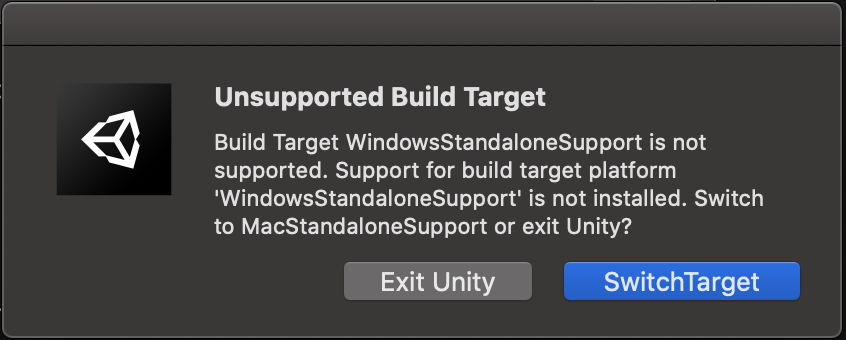
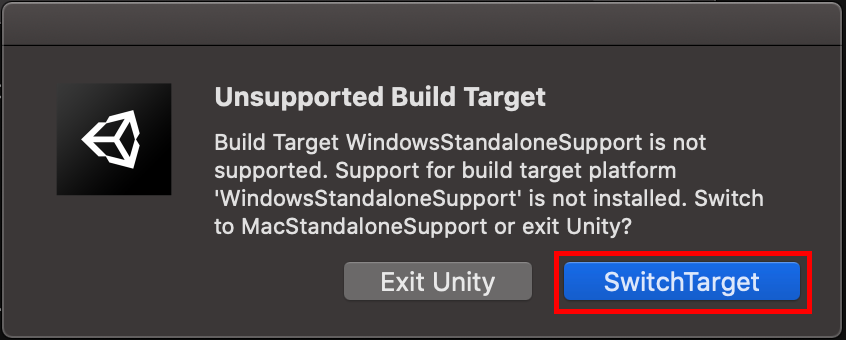
update readme

Changed region(s): [[0.6454, 0.7353, 0.9835, 0.9412]]

diff --git a/README.md b/README.md
@@ -9,9 +9,12 @@
 2. Create new branch from main branch (you will see why later).
 2. Download [Unity](https://unity.com/download).
 3. Open the Unity Hub and create or sign in to existing Unity ID account.
-4. Open the project. ![Select project tab on the left and click open button on the top right.](assets/open_the_project.png "a title")
-5. Navigate to this repository and select stadium folder. ![Select right filepath](assets/find_and_select_project.png "a title")
-6. Ensure that you have installed. ![Version compatible](assets/version_compatible.png "a title")
-7. Click once and wait till project opens.
-8. If you have this warning click switch target. ![Switch target](assets/switch_target_warning.png "a title")
+> :point_up: When installing Unity Editor, install Visual Studio for Windows or MacOS since it highlights and show hints. ![Install Visual Studio Code.](assets/install_visual_studio.png "Install Visual Studio.")
+
+### How to open Unity project
+1. Open the project. ![Select project tab on the left and click open button on the top right.](assets/open_the_project.png "Select project tab on the left and click open button on the top right.")
+2. Navigate to this repository and select stadium folder. ![Select right filepath](assets/find_and_select_project.png "Select right filepath")
+3. Ensure that you have project version installed and selected. ![Version compatible](assets/version_compatible.png "Version compatible")
+4. Click once and wait till project opens.
+5. If you have this warning click switch target. ![Switch target](assets/switch_target_warning.png "Switch target")
 Since Unity is a cross platform it will change some files in order to open project in Windown or MacOS.
